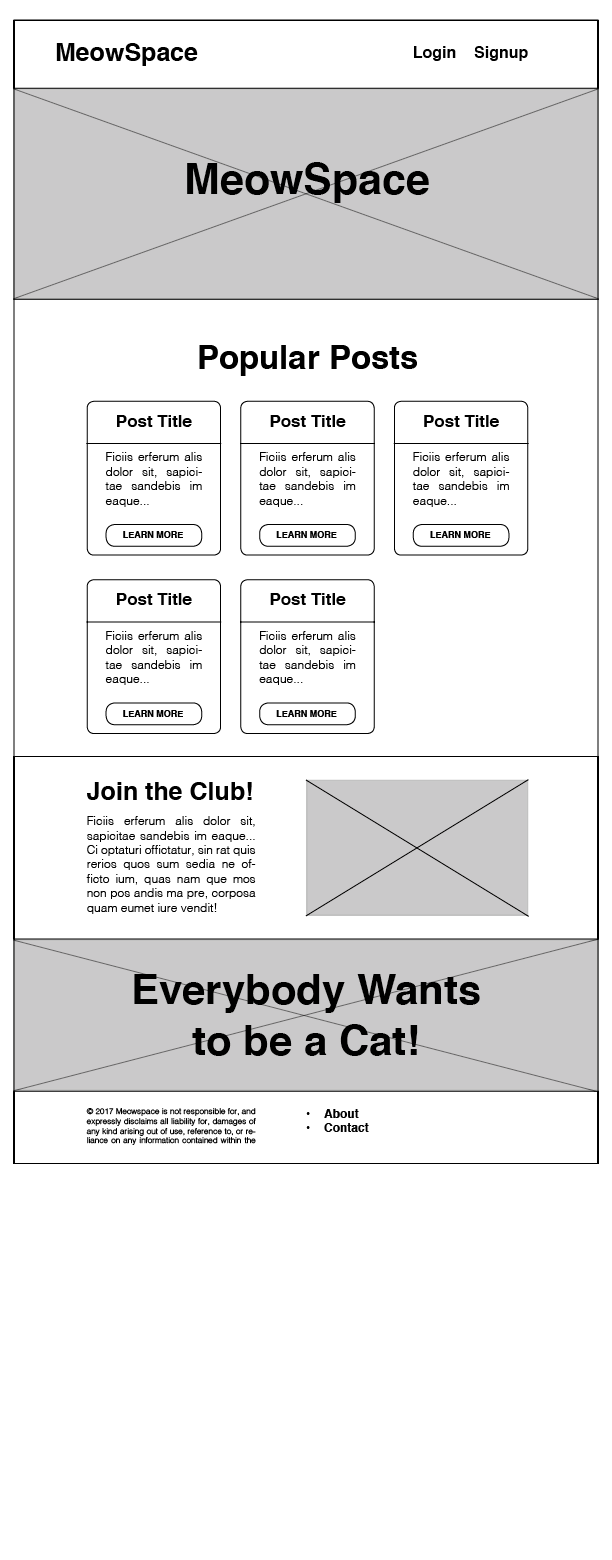
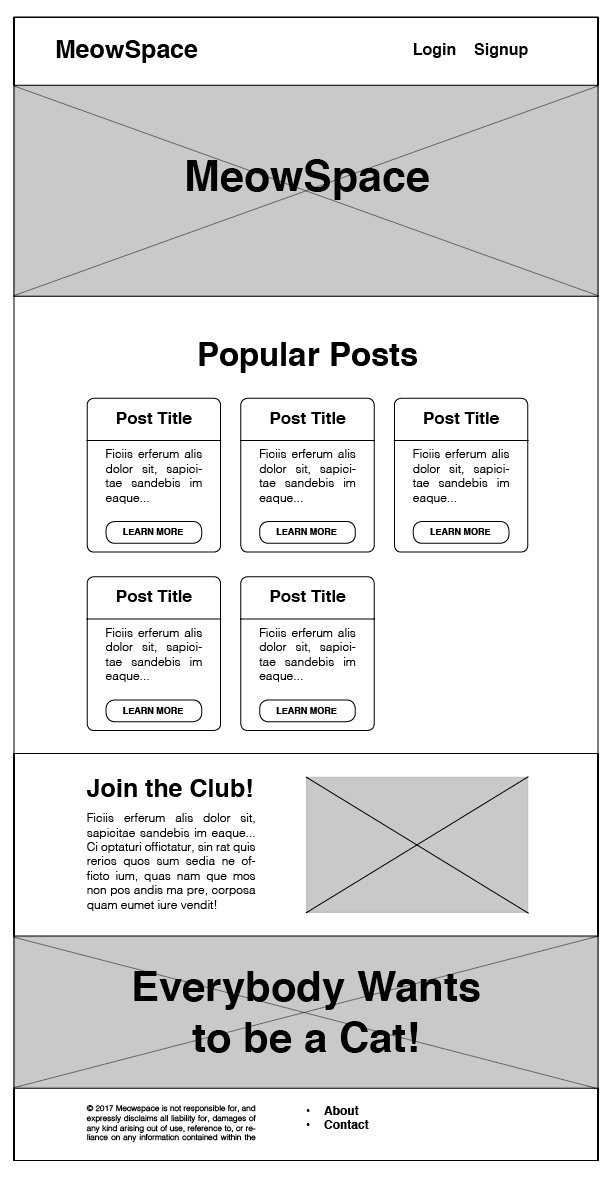
add wireframe to readme

diff --git a/README.md b/README.md
@@ -9,7 +9,7 @@ This is an individual, [stage 2](https://github.com/Ada-Developers-Academy/pedag
 
 ## Baseline
 Using CSS, construct the layout of the site according to the drawing below.
-![Meowspace Wireframe]()
+![Meowspace Wireframe](./assets/meowspace.png)
 
 
 This drawings is called a wireframe. Wireframes are like a blueprint for your site's layout design. It highlights the layout without focusing on any of the design specifics (like color, fonts etc.).
